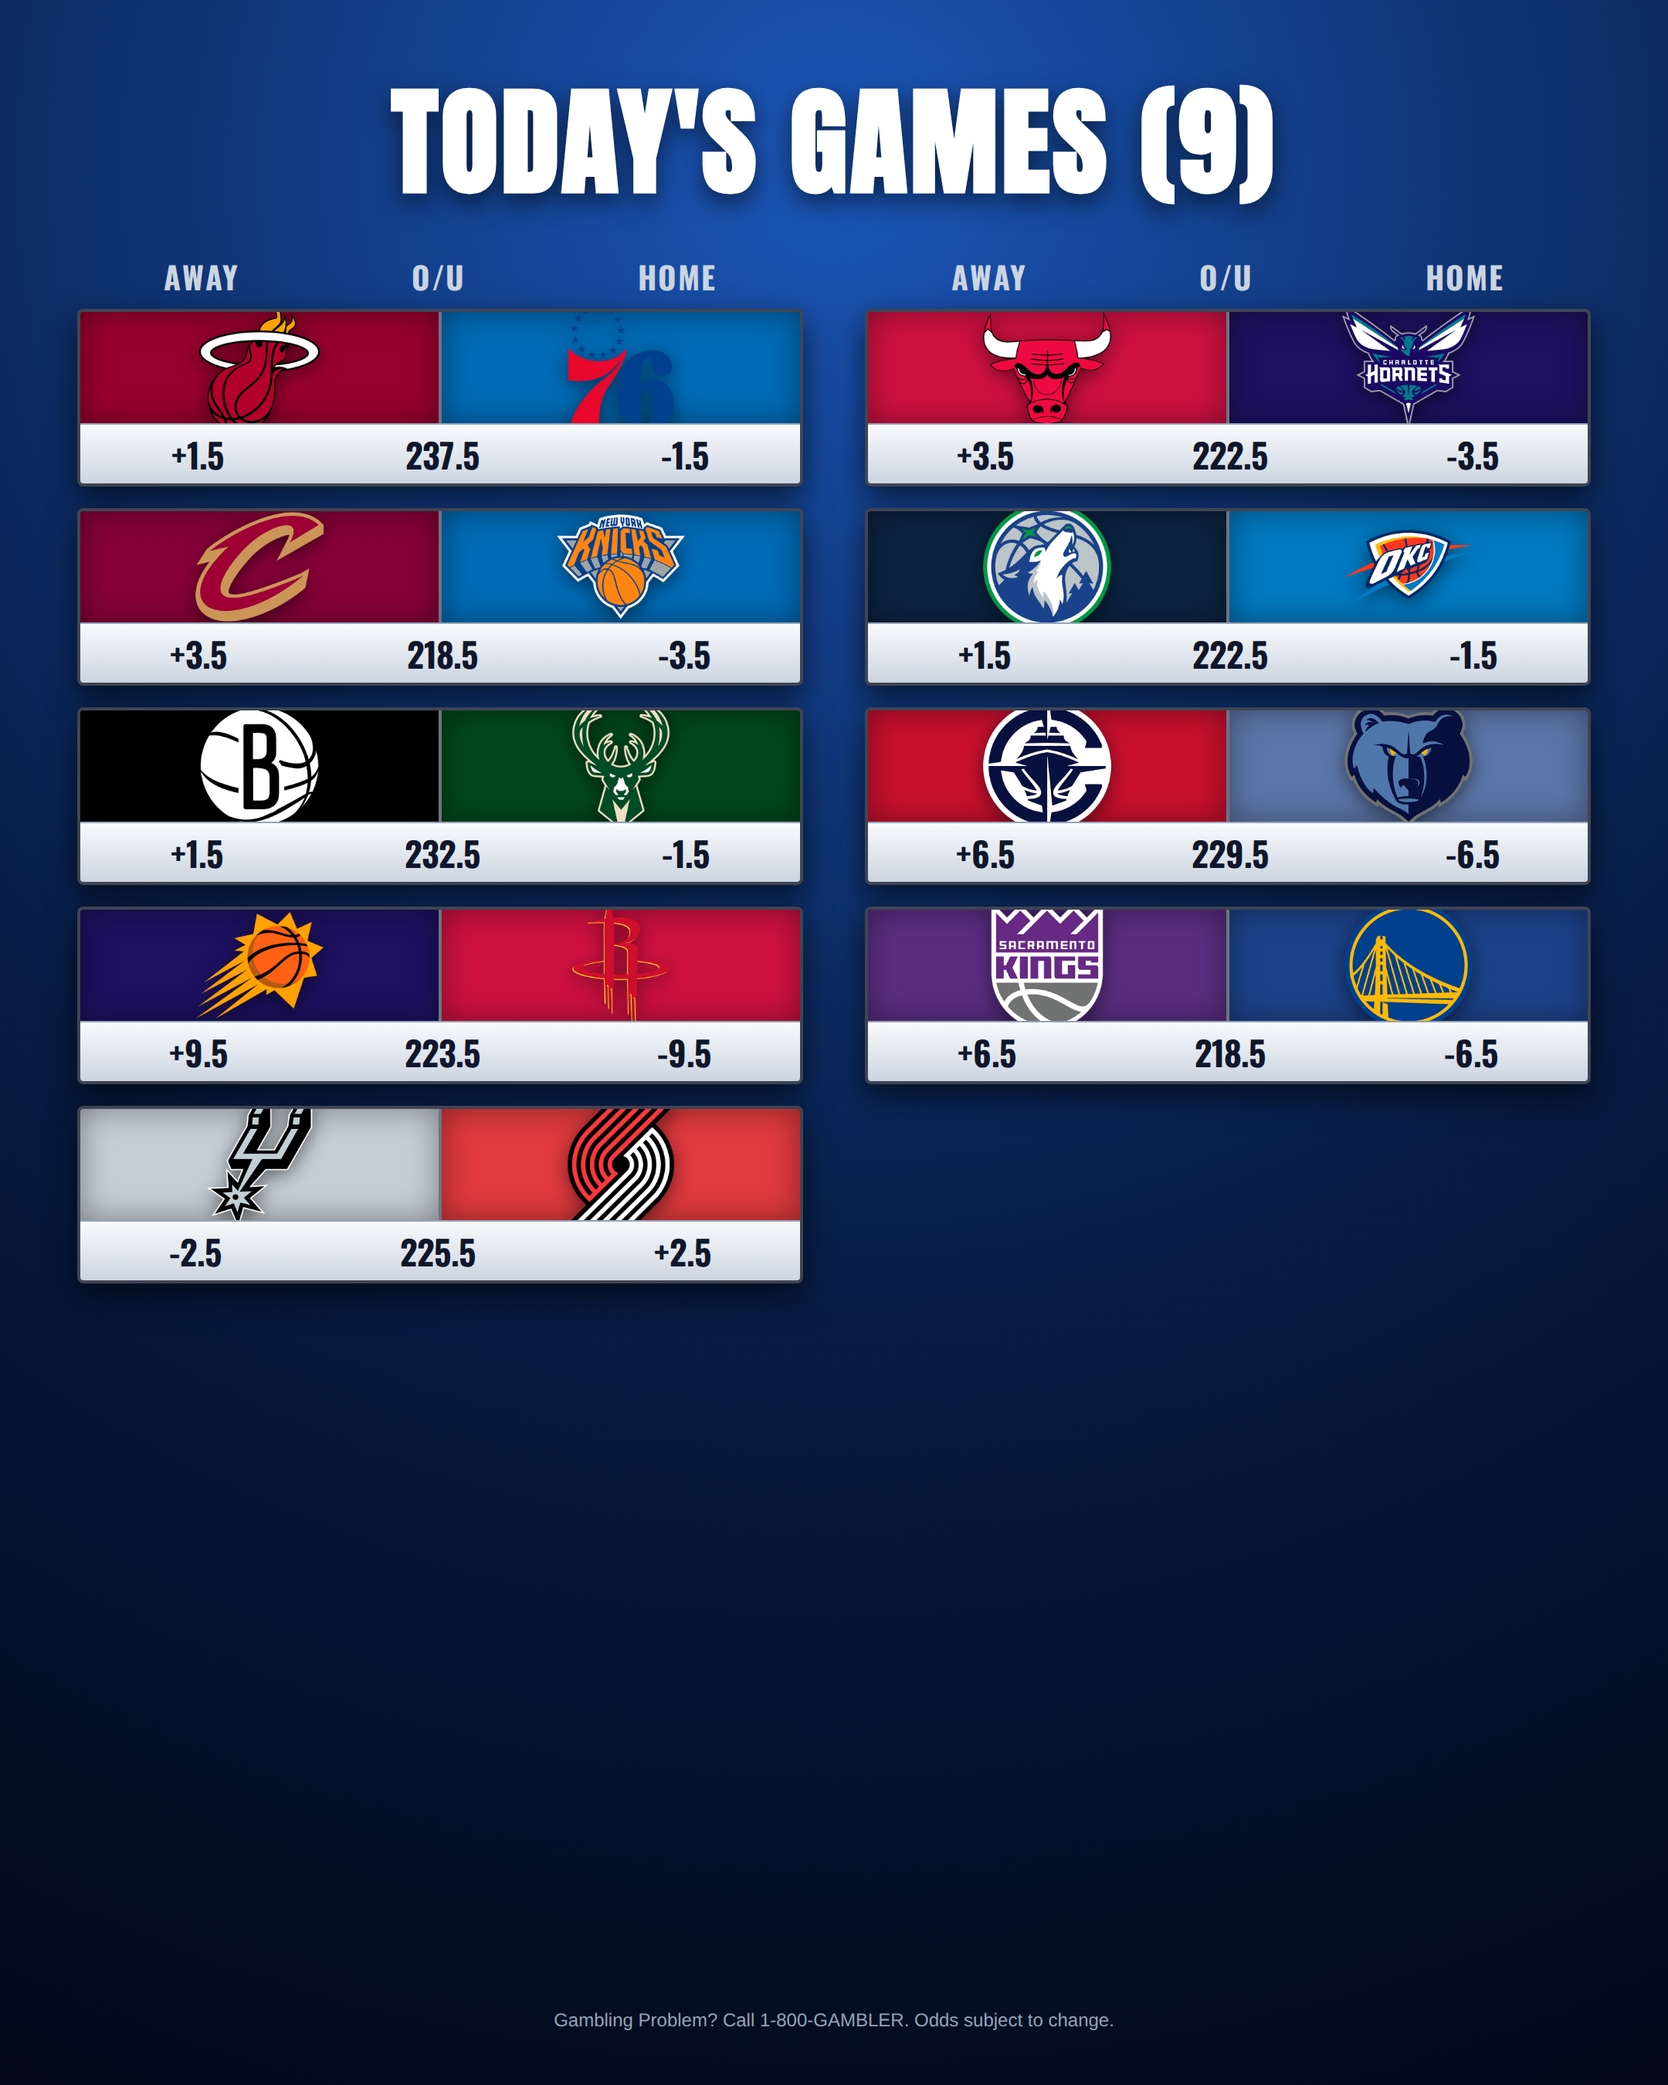
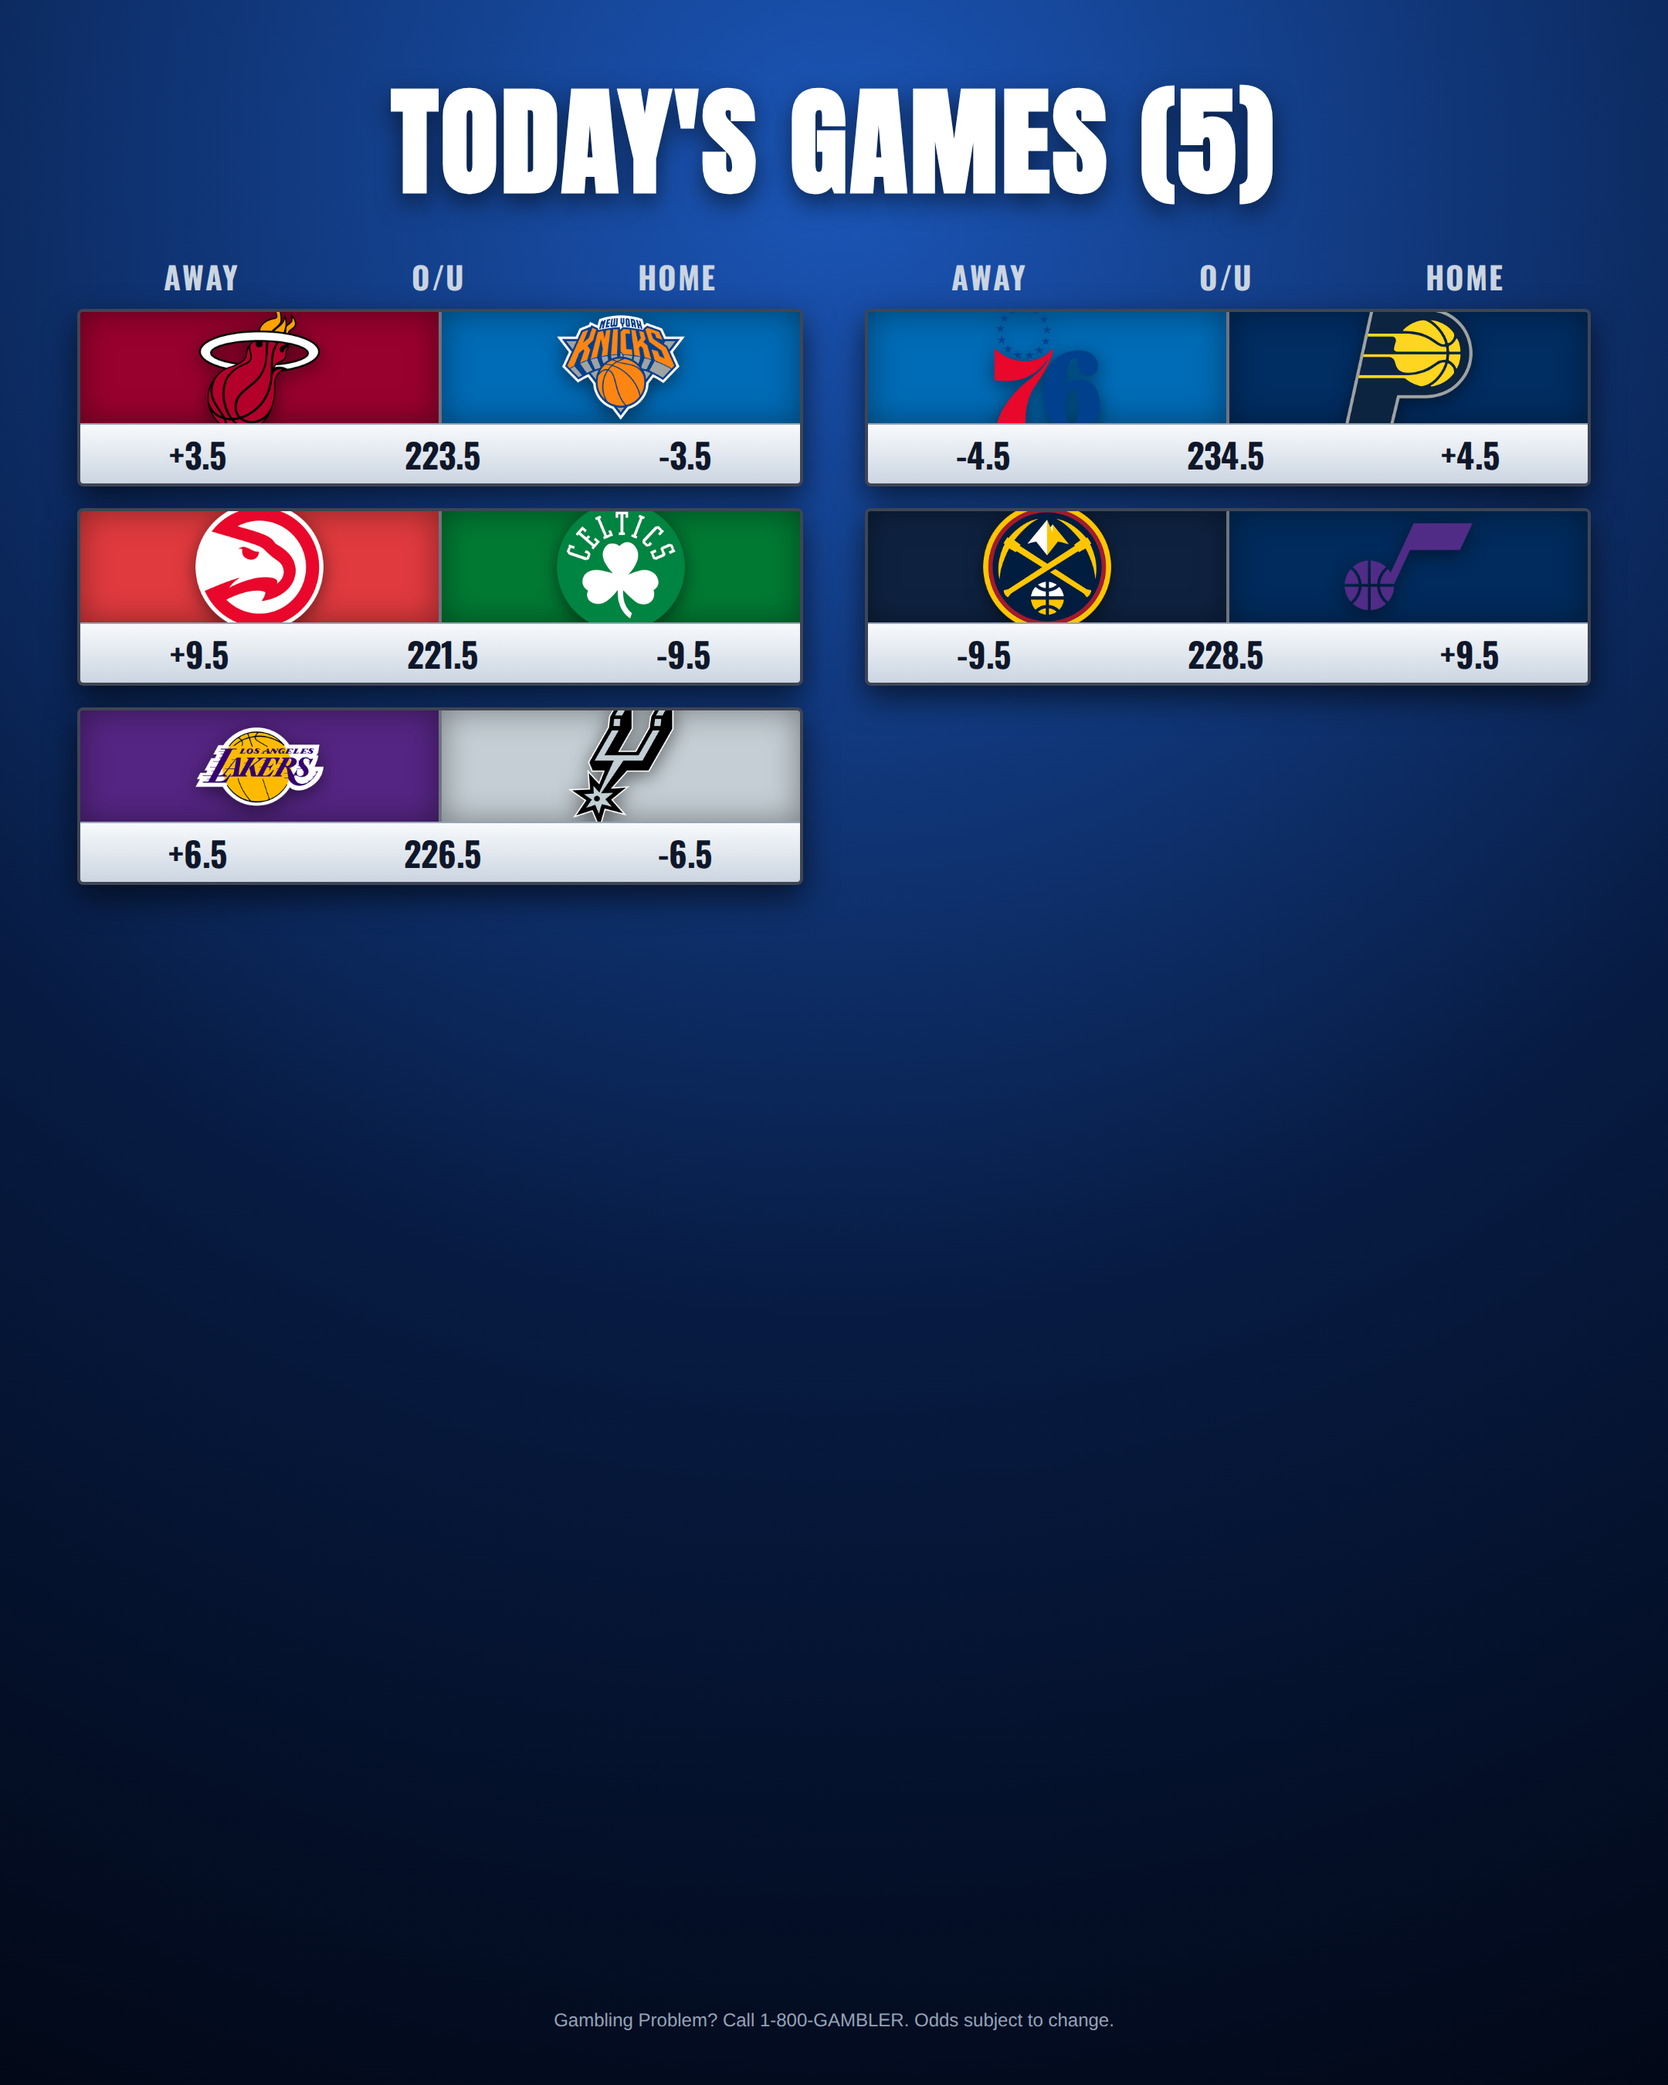
Auto-generate daily NBA betting graphic [skip ci]

Changed region(s): [[0.031, 0.1244, 0.9616, 0.6222], [0.7134, 0.0311, 0.7444, 0.0933]]

diff --git a/output/temp.html b/output/temp.html
@@ -108,7 +108,7 @@
         </style>
     </head>
     <body>
-        <h1>TODAY'S GAMES (9)</h1>
+        <h1>TODAY'S GAMES (5)</h1>
         <div class="column-headers">
             <div class="header-labels"><span>AWAY</span><span>O/U</span><span>HOME</span></div>
             <div class="header-labels"><span>AWAY</span><span>O/U</span><span>HOME</span></div>
@@ -122,149 +122,81 @@
                 </div>
                 <div class="divider"></div>
                 <div class="team-half" style="background-color: #006BB6;">
-                    <img src="https://a.espncdn.com/i/teamlogos/nba/500/phi.png" class="team-logo" />
-                </div>
-            </div>
-            <div class="odds-bar">
-                <span>+1.5</span>
-                <span class="ou-val">237.5</span>
-                <span>-1.5</span>
-            </div>
-        </div>
-        
-        <div class="card">
-            <div class="logo-banner">
-                <div class="team-half" style="background-color: #CE1141;">
-                    <img src="https://a.espncdn.com/i/teamlogos/nba/500/chi.png" class="team-logo" />
-                </div>
-                <div class="divider"></div>
-                <div class="team-half" style="background-color: #1D1160;">
-                    <img src="https://a.espncdn.com/i/teamlogos/nba/500/cha.png" class="team-logo" />
-                </div>
-            </div>
-            <div class="odds-bar">
-                <span>+3.5</span>
-                <span class="ou-val">222.5</span>
-                <span>-3.5</span>
-            </div>
-        </div>
-        
-        <div class="card">
-            <div class="logo-banner">
-                <div class="team-half" style="background-color: #860038;">
-                    <img src="https://a.espncdn.com/i/teamlogos/nba/500/cle.png" class="team-logo" />
-                </div>
-                <div class="divider"></div>
-                <div class="team-half" style="background-color: #006BB6;">
                     <img src="https://a.espncdn.com/i/teamlogos/nba/500/ny.png" class="team-logo" />
                 </div>
             </div>
             <div class="odds-bar">
                 <span>+3.5</span>
-                <span class="ou-val">218.5</span>
+                <span class="ou-val">223.5</span>
                 <span>-3.5</span>
             </div>
         </div>
         
         <div class="card">
             <div class="logo-banner">
-                <div class="team-half" style="background-color: #0c2340;">
-                    <img src="https://a.espncdn.com/i/teamlogos/nba/500/min.png" class="team-logo" />
+                <div class="team-half" style="background-color: #006BB6;">
+                    <img src="https://a.espncdn.com/i/teamlogos/nba/500/phi.png" class="team-logo" />
                 </div>
                 <div class="divider"></div>
-                <div class="team-half" style="background-color: #007AC1;">
-                    <img src="https://a.espncdn.com/i/teamlogos/nba/500/okc.png" class="team-logo" />
+                <div class="team-half" style="background-color: #002D62;">
+                    <img src="https://a.espncdn.com/i/teamlogos/nba/500/ind.png" class="team-logo" />
                 </div>
             </div>
             <div class="odds-bar">
-                <span>+1.5</span>
-                <span class="ou-val">222.5</span>
-                <span>-1.5</span>
+                <span>-4.5</span>
+                <span class="ou-val">234.5</span>
+                <span>+4.5</span>
             </div>
         </div>
         
         <div class="card">
             <div class="logo-banner">
-                <div class="team-half" style="background-color: #000000;">
-                    <img src="https://a.espncdn.com/i/teamlogos/nba/500/bkn.png" class="team-logo" />
+                <div class="team-half" style="background-color: #E03A3E;">
+                    <img src="https://a.espncdn.com/i/teamlogos/nba/500/atl.png" class="team-logo" />
                 </div>
                 <div class="divider"></div>
-                <div class="team-half" style="background-color: #00471B;">
-                    <img src="https://a.espncdn.com/i/teamlogos/nba/500/mil.png" class="team-logo" />
-                </div>
-            </div>
-            <div class="odds-bar">
-                <span>+1.5</span>
-                <span class="ou-val">232.5</span>
-                <span>-1.5</span>
-            </div>
-        </div>
-        
-        <div class="card">
-            <div class="logo-banner">
-                <div class="team-half" style="background-color: #C8102E;">
-                    <img src="https://a.espncdn.com/i/teamlogos/nba/500/lac.png" class="team-logo" />
-                </div>
-                <div class="divider"></div>
-                <div class="team-half" style="background-color: #5D76A9;">
-                    <img src="https://a.espncdn.com/i/teamlogos/nba/500/mem.png" class="team-logo" />
-                </div>
-            </div>
-            <div class="odds-bar">
-                <span>+6.5</span>
-                <span class="ou-val">229.5</span>
-                <span>-6.5</span>
-            </div>
-        </div>
-        
-        <div class="card">
-            <div class="logo-banner">
-                <div class="team-half" style="background-color: #1D1160;">
-                    <img src="https://a.espncdn.com/i/teamlogos/nba/500/phx.png" class="team-logo" />
-                </div>
-                <div class="divider"></div>
-                <div class="team-half" style="background-color: #CE1141;">
-                    <img src="https://a.espncdn.com/i/teamlogos/nba/500/hou.png" class="team-logo" />
+                <div class="team-half" style="background-color: #007A33;">
+                    <img src="https://a.espncdn.com/i/teamlogos/nba/500/bos.png" class="team-logo" />
                 </div>
             </div>
             <div class="odds-bar">
                 <span>+9.5</span>
-                <span class="ou-val">223.5</span>
+                <span class="ou-val">221.5</span>
                 <span>-9.5</span>
             </div>
         </div>
         
         <div class="card">
             <div class="logo-banner">
-                <div class="team-half" style="background-color: #5A2D81;">
-                    <img src="https://a.espncdn.com/i/teamlogos/nba/500/sac.png" class="team-logo" />
+                <div class="team-half" style="background-color: #0E2240;">
+                    <img src="https://a.espncdn.com/i/teamlogos/nba/500/den.png" class="team-logo" />
                 </div>
                 <div class="divider"></div>
-                <div class="team-half" style="background-color: #1D428A;">
-                    <img src="https://a.espncdn.com/i/teamlogos/nba/500/gs.png" class="team-logo" />
+                <div class="team-half" style="background-color: #002B5C;">
+                    <img src="https://a.espncdn.com/i/teamlogos/nba/500/utah.png" class="team-logo" />
                 </div>
             </div>
             <div class="odds-bar">
-                <span>+6.5</span>
-                <span class="ou-val">218.5</span>
-                <span>-6.5</span>
+                <span>-9.5</span>
+                <span class="ou-val">228.5</span>
+                <span>+9.5</span>
             </div>
         </div>
         
         <div class="card">
             <div class="logo-banner">
+                <div class="team-half" style="background-color: #552583;">
+                    <img src="https://a.espncdn.com/i/teamlogos/nba/500/lal.png" class="team-logo" />
+                </div>
+                <div class="divider"></div>
                 <div class="team-half" style="background-color: #C4CED4;">
                     <img src="https://a.espncdn.com/i/teamlogos/nba/500/sa.png" class="team-logo" />
                 </div>
-                <div class="divider"></div>
-                <div class="team-half" style="background-color: #E03A3E;">
-                    <img src="https://a.espncdn.com/i/teamlogos/nba/500/por.png" class="team-logo" />
-                </div>
             </div>
             <div class="odds-bar">
-                <span>-2.5</span>
-                <span class="ou-val">225.5</span>
-                <span>+2.5</span>
+                <span>+6.5</span>
+                <span class="ou-val">226.5</span>
+                <span>-6.5</span>
             </div>
         </div>
         

diff --git a/output/nfl_temp.html b/output/nfl_temp.html
@@ -121,23 +121,6 @@
             
         <div class="card">
             <div class="logo-banner">
-                <div class="team-oval" style="background-color: #203731;">
-                    <img src="https://a.espncdn.com/i/teamlogos/nfl/500/gb.png" class="team-logo" />
-                </div>
-                <div class="vs-badge">@</div>
-                <div class="team-oval" style="background-color: #003594;">
-                    <img src="https://a.espncdn.com/i/teamlogos/nfl/500/lar.png" class="team-logo" />
-                </div>
-            </div>
-            <div class="odds-bar">
-                <span>+2.5</span>
-                <span class="ou-val">44.5</span>
-                <span>-2.5</span>
-            </div>
-        </div>
-        
-        <div class="card">
-            <div class="logo-banner">
                 <div class="team-oval" style="background-color: #0B162A;">
                     <img src="https://a.espncdn.com/i/teamlogos/nfl/500/chi.png" class="team-logo" />
                 </div>
@@ -148,7 +131,7 @@
             </div>
             <div class="odds-bar">
                 <span>-1.5</span>
-                <span class="ou-val">55.5</span>
+                <span class="ou-val">56.5</span>
                 <span>+1.5</span>
             </div>
         </div>
@@ -165,7 +148,7 @@
             </div>
             <div class="odds-bar">
                 <span>+8.5</span>
-                <span class="ou-val">47.5</span>
+                <span class="ou-val">48.5</span>
                 <span>-8.5</span>
             </div>
         </div>
@@ -181,9 +164,9 @@
                 </div>
             </div>
             <div class="odds-bar">
-                <span>+2.5</span>
-                <span class="ou-val">47.5</span>
-                <span>-2.5</span>
+                <span>+3</span>
+                <span class="ou-val">45.5</span>
+                <span>-3</span>
             </div>
         </div>
         
@@ -198,9 +181,9 @@
                 </div>
             </div>
             <div class="odds-bar">
-                <span>-3.5</span>
+                <span>-4.5</span>
                 <span class="ou-val">36.5</span>
-                <span>+3.5</span>
+                <span>+4.5</span>
             </div>
         </div>
         
@@ -250,7 +233,7 @@
             </div>
             <div class="odds-bar">
                 <span>+9.5</span>
-                <span class="ou-val">50.5</span>
+                <span class="ou-val">49.5</span>
                 <span>-9.5</span>
             </div>
         </div>
@@ -284,7 +267,7 @@
             </div>
             <div class="odds-bar">
                 <span>+14.5</span>
-                <span class="ou-val">48.5</span>
+                <span class="ou-val">49.5</span>
                 <span>-14.5</span>
             </div>
         </div>
@@ -300,9 +283,9 @@
                 </div>
             </div>
             <div class="odds-bar">
-                <span>-3.5</span>
+                <span>-5.5</span>
                 <span class="ou-val">40.5</span>
-                <span>+3.5</span>
+                <span>+5.5</span>
             </div>
         </div>
         
@@ -317,9 +300,9 @@
                 </div>
             </div>
             <div class="odds-bar">
-                <span>+1.5</span>
-                <span class="ou-val">35.5</span>
                 <span>-1.5</span>
+                <span class="ou-val">35.5</span>
+                <span>+1.5</span>
             </div>
         </div>
         
@@ -351,9 +334,9 @@
                 </div>
             </div>
             <div class="odds-bar">
-                <span>+3</span>
-                <span class="ou-val">45.5</span>
-                <span>-3</span>
+                <span>+2.5</span>
+                <span class="ou-val">44.5</span>
+                <span>-2.5</span>
             </div>
         </div>
         
@@ -388,6 +371,23 @@
                 <span>+3</span>
                 <span class="ou-val">43.5</span>
                 <span>-3</span>
+            </div>
+        </div>
+        
+        <div class="card">
+            <div class="logo-banner">
+                <div class="team-oval" style="background-color: #E31837;">
+                    <img src="https://a.espncdn.com/i/teamlogos/nfl/500/kc.png" class="team-logo" />
+                </div>
+                <div class="vs-badge">@</div>
+                <div class="team-oval" style="background-color: #003594;">
+                    <img src="https://a.espncdn.com/i/teamlogos/nfl/500/lar.png" class="team-logo" />
+                </div>
+            </div>
+            <div class="odds-bar">
+                <span>-1.5</span>
+                <span class="ou-val">44.5</span>
+                <span>+1.5</span>
             </div>
         </div>
         
